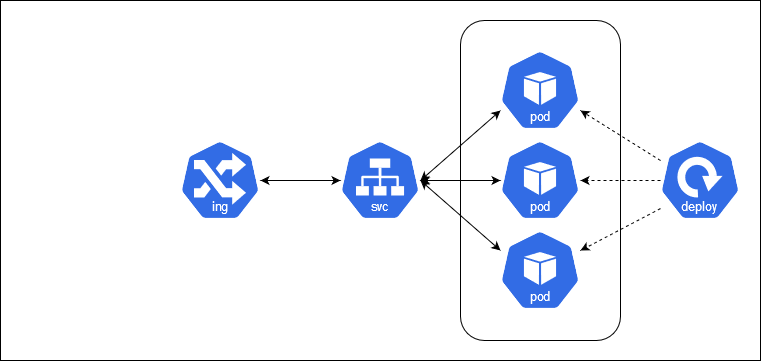
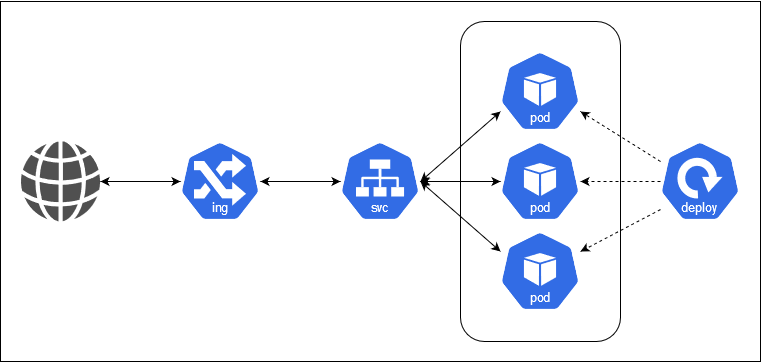
Part4: redis master only, resilience

diff --git a/tutorial-4-stateful-app.md b/tutorial-4-stateful-app.md
@@ -129,6 +129,16 @@ spec:
         tier: frontend
         component: webserver
     spec:
+      affinity:
+        podAntiAffinity:
+          requiredDuringSchedulingIgnoredDuringExecution:
+          - labelSelector:
+              matchExpressions:
+              - key: component
+                operator: In
+                values:
+                - webserver
+            topologyKey: "kubernetes.io/hostname"
       containers:
       - name: app-part4
         image: tsouche/learn-kubernetes:part4
@@ -194,6 +204,25 @@ spec:
           serviceName: hello-part4-service
           servicePort: 80
 ```
+
+Please note also the _Deployment_ `spec` mentionning `podAntiAffinity`:
+
+```yaml
+    affinity:
+      podAntiAffinity:
+        requiredDuringSchedulingIgnoredDuringExecution:
+        - labelSelector:
+            matchExpressions:
+            - key: component
+              operator: In
+              values:
+              - webserver
+          topologyKey: "kubernetes.io/hostname"
+```
+
+The purpose here is to instruct the Scheduler to distribute the _Pods_ over the _Nodes_ so that two _Pods_ will not run on the same _Node_: this is an anti-affinity rule.
+
+> Note: We could also consider an affinity rule if we would want to schedule the frontend _Pods_ on the same _Nodes_ as the backend (mostly for performance reason) but it is not usefull in this case since the _Redis Service_ will run on one single _Node_.
 
 Let's apply these files to run the frontend _Deployment_, _Service_ and _Ingress_:
 
@@ -303,15 +332,14 @@ So everything works so far :smile:. It is time to get the backend up and running
 ## 4.2 - Start up the Redis backend
 
 
-The application uses Redis to store its data. It writes its data to a single Redis Master instance and reads data from multiple Redis Slave instances.
+The application uses Redis to store its data. It writes its data to a single _Redis Master_ instance. Since in our case, we will test resilience but not performance, we will not instantiate a _Redis Slave Service_.
 
-> Nota: the Redis backend service is compsed of two components:
-> * the *Redis Master Service* will serve all the write requests, and is running on one single Pod on one single Node, because the Redis technology cannot easily have multiple Master writing for the *same* data chunk;
-> * the *Redis Slave Service* will serve all the read requests, and can be replicated over multiple Pods (on multiple Nodes): each replica holds a copy of the Master database, and can take off teh load for serving read requests.
-> * the *Redis Slave Service* can then be resilient and scalable. However, the *Redis Master Service* will still be *Single Point of Failure* (SPOF) because it cannot be distributed over multiple replicas.
+> Nota: the Redis backend service is composed of two components:
+> * the *Redis Master Service* is running on one single Pod on one single Node, because the Redis technology cannot easily have multiple Master writing for the *same* data chunk.
+> * the *Redis Master Service* can can either serve all the requests (writes and reads), or it can be seconded by a *Redis Slave Service* which will serve all the read requests
+> * the *Redis Slave Service* can be replicated over multiple Pods (on multiple Nodes): each replica holds a copy of the Master database, and can take off teh load for serving read requests: it is resilient and scalable.
+> * However, even in such a case, the *Redis Master Service* will still be *Single Point of Failure* (SPOF) because it cannot be distributed over multiple replicas.
 
-
-### 4.2.1 - Creating the Redis Master _Deployment_ and _Service_
 
 The manifest files, included below, specify a _Deployment_ and a _Service_ that runs a single replica _Redis Master Service_.
 
@@ -413,139 +441,6 @@ If you go the browser, it should look like that:
 ![alt txt](./images/tuto-4-frontend+redis.png "Frontend with REdis backend, showing the number of visitors")
 
 
-### 4.2.2 - Creating the *Redis Slave Deployment*
-
-
-We will setup the Redis Slave Deployment and Service by applying the corresponding YAML configuration files. The Redis Slave Deployment ask for 2 replicas to be created:
-
-File 1: `./app-guestbook/redis-slave-deployment.yaml`
-
-```yaml
-apiVersion: apps/v1 # for versions before 1.9.0 use apps/v1beta2
-kind: Deployment
-metadata:
-  name: redis-slave
-  labels:
-    app: redis
-  spec:
-   selector:
-     matchLabels:
-       app: redis
-       role: slave
-       tier: backend
-   replicas: 2
-   template:
-     metadata:
-       labels:
-         app: redis
-         role: slave
-         tier: backend
-     spec:
-       containers:
-       - name: slave
-         image: gcr.io/google_samples/gb-redisslave:v3
-         resources:
-           requests:
-             cpu: 100m
-             memory: 100Mi
-         env:
-         - name: GET_HOSTS_FROM
-           value: dns
-           # Using `GET_HOSTS_FROM=dns` requires your cluster to
-           # provide a dns service. As of Kubernetes 1.3, DNS is a built-in
-           # service launched automatically. However, if the cluster you are using
-           # does not have a built-in DNS service, you can instead
-           # access an environment variable to find the master
-           # service's host. To do so, comment out the 'value: dns' line above, and
-           # uncomment the line below:
-           # value: env
-         ports:
-         - containerPort: 6379
-```
-
-File 2: `./app-guestbook/redis-slave-service.yaml`
-
-```yaml
-apiVersion: v1
-kind: Service
-metadata:
-  name: redis-slave
-  labels:
-    app: redis
-    role: slave
-    tier: backend
-spec:
-  ports:
-  - port: 6379
-  selector:
-    app: redis
-    role: slave
-    tier: backend
-```
-
-Let's apply these files to run the *Redis Slave Service*:
-
-```bash
-tuto@laptop:~/learn-kubernetes$ kubectl apply -f ./app-guestbook/redis-slave-deployment.yaml
-deployment.apps/redis-slave created
-tuto@laptop:~/learn-kubernetes$ kubectl apply -f ./app-guestbook/redis-slave-service.yaml
-service/redis-slave created
-```
-
-Query the list of _Pods_ to verify that the _Redis Slave Pods_ are running:
-
-```bash
-tuto@laptop:~/learn-kubernetes$ kubectl get pods -o wide
-NAME                                      READY   STATUS    RESTARTS   AGE     IP           NODE               NOMINATED NODE   READINESS GATES
-hello-part4-deployment-6695fc768f-4bgrn   1/1     Running   0          25m     10.244.3.3   k8s-tuto-worker    <none>           <none>
-hello-part4-deployment-6695fc768f-x9gdh   1/1     Running   0          25m     10.244.1.5   k8s-tuto-worker2   <none>           <none>
-hello-part4-deployment-6695fc768f-xkbbg   1/1     Running   0          25m     10.244.3.4   k8s-tuto-worker    <none>           <none>
-redis-master-76fbb9b7bf-wk7hj             1/1     Running   0          94s     10.244.3.5   k8s-tuto-worker    <none>           <none>
-redis-slave-5bbbc574d6-sn5bz              1/1     Running   0          66s     10.244.1.6   k8s-tuto-worker2   <none>           <none>
-redis-slave-5bbbc574d6-z98gk              1/1     Running   0          66s     10.244.3.6   k8s-tuto-worker    <none>           <none>
-```
-
-Query the list of _Services_ to verify that the *Redis slave Service* is running:
-
-```bash
-tuto@laptop:~/learn-kubernetes$ kubectl get services
-NAME                  TYPE        CLUSTER-IP      EXTERNAL-IP   PORT(S)        AGE
-hello-part4-service   NodePort    10.107.15.5     <none>        80:31122/TCP   25m
-kubernetes            ClusterIP   10.96.0.1       <none>        443/TCP        26h
-redis-master          ClusterIP   10.100.71.111   <none>        6379/TCP       2m
-redis-slave           ClusterIP   10.98.115.42    <none>        6379/TCP       70m
-```
-
-And before we move to the resilience test, let's check how the labels can enable us to target some of the resources of the application:
-
-```bash
-tuto@laptop:~/learn-kubernetes$ kubectl get pods -l tier=frontend -o wide
-NAME                                      READY   STATUS    RESTARTS   AGE     IP           NODE               NOMINATED NODE   READINESS GATES
-hello-part4-deployment-6695fc768f-4bgrn   1/1     Running   0          3m18s   10.244.3.3   k8s-tuto-worker    <none>           <none>
-hello-part4-deployment-6695fc768f-x9gdh   1/1     Running   0          3m18s   10.244.1.5   k8s-tuto-worker2   <none>           <none>
-hello-part4-deployment-6695fc768f-xkbbg   1/1     Running   0          3m18s   10.244.3.4   k8s-tuto-worker    <none>           <none>
-
-tuto@laptop:~/learn-kubernetes$ kubectl get pods -l tier=backend -o wide
-NAME                            READY   STATUS    RESTARTS   AGE    IP           NODE               NOMINATED NODE   READINESS GATES
-redis-master-76fbb9b7bf-wk7hj   1/1     Running   0          2m5s   10.244.3.5   k8s-tuto-worker    <none>           <none>
-redis-slave-5bbbc574d6-sn5bz    1/1     Running   0          97s    10.244.1.6   k8s-tuto-worker2   <none>           <none>
-redis-slave-5bbbc574d6-z98gk    1/1     Running   0          97s    10.244.3.6   k8s-tuto-worker    <none>           <none>
-
-tuto@laptop:~/learn-kubernetes$ kubectl get pods -l component=webserver -o wide
-NAME                                      READY   STATUS    RESTARTS   AGE     IP           NODE               NOMINATED NODE   READINESS GATES
-hello-part4-deployment-6695fc768f-4bgrn   1/1     Running   0          5m26s   10.244.3.3   k8s-tuto-worker    <none>           <none>
-hello-part4-deployment-6695fc768f-x9gdh   1/1     Running   0          5m26s   10.244.1.5   k8s-tuto-worker2   <none>           <none>
-hello-part4-deployment-6695fc768f-xkbbg   1/1     Running   0          5m26s   10.244.3.4   k8s-tuto-worker    <none>           <none>
-
-tuto@laptop:~/learn-kubernetes$ kubectl get pods -l component=redis-master -o wide
-NAME                            READY   STATUS    RESTARTS   AGE     IP           NODE              NOMINATED NODE   READINESS GATES
-redis-master-76fbb9b7bf-wk7hj   1/1     Running   0          4m13s   10.244.3.5   k8s-tuto-worker   <none>           <none>
-
-tuto@laptop:~/learn-kubernetes$ kubectl get pods -l component=redis-slave -o wide
-NAME                           READY   STATUS    RESTARTS   AGE     IP           NODE               NOMINATED NODE   READINESS GATES
-redis-slave-5bbbc574d6-sn5bz   1/1     Running   0          4m15s   10.244.1.6   k8s-tuto-worker2   <none>           <none>
-redis-slave-5bbbc574d6-z98gk   1/1     Running   0          4m15s   10.244.3.6   k8s-tuto-worker    <none>           <none>
-```
 
 
 ## 4.5 - Testing the resilience

diff --git a/tutorial-1-concepts.md b/tutorial-1-concepts.md
@@ -170,7 +170,7 @@ If you do nothing more, this is no very useful: you now have a cluster standing 
 The simplest way to interact with the cluster is to use `kubectl`: it is a CLI tool which will take your commands as input, and translate them into valid requests to the _API Server_: it will also translate into a human readable format the answers received from the _API Server_. This namely is a classical way to provision an application on the cluster.
 
 
-![alt txt](./images/tuto-1-k8s-overview-00.png "cluster overview")
+![alt txt](./images/tuto-1-k8s-overview-02.png "cluster overview")
 
 
 So let's now look at what you need to do in order to deploy an application on Kubernetes.
@@ -209,7 +209,7 @@ Once these _Pods_ are scheduled by the _Deployment_, they can handle requests co
 The _Service_ is focused on how the group of _Pods_ should be reached.
 
 3.  Finally, when we want to make the _Service_ publicly visible from the outside of the cluster, reachable via a fixed URL, then you need to activate an _Ingress_: its duty is to establish a public routing/loadbalancing/... from the outside to the application.
-![alt txt](./images/tuto-1-from-pod-to-service-to-ingress-05.png "an Ingress will expose the Pods to the outside")
+![alt txt](./images/tuto-1-from-pod-to-service-to-ingress-04.png "an Ingress will expose the Pods to the outside")
 
 So let's drill a bit into these mechanisms.
 
